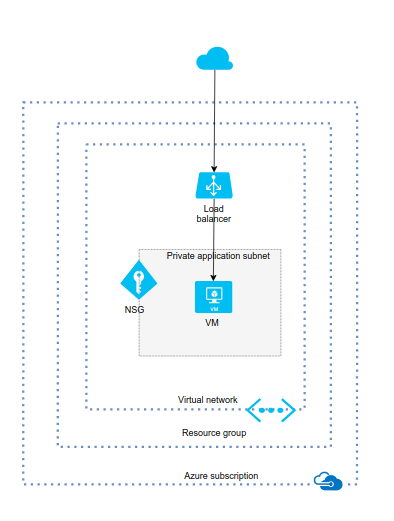
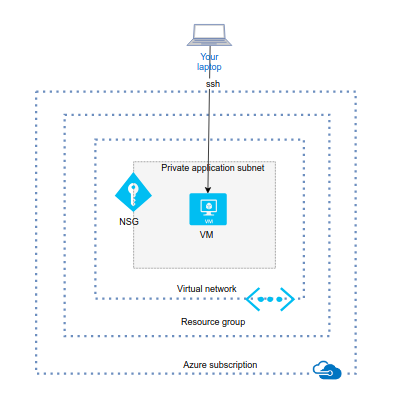
Added vm module. Demo is ready. Next finalize documentation.

diff --git a/README.md b/README.md
@@ -89,14 +89,17 @@ You need an Azure subscription for this demonstration. You can order a private A
 8. Open Azure Portal and browse different views to see what entities were created:
    1. TODO.
    2. TODO
-9. Test the demo application by hitting to the load balancer with a http GET: 
-   1. TODO: Get LB DNS here.
-   2. TODO: curl command here.
+9. Test to get ssh connection to the VM:
+   1. terraform output -module=env-def.vm => You get the public ip of the VM.
+   2. Open another terminal in project root folder.
+   3. ssh -i terraform/modules/vm/.ssh/vm_id_rsa ubuntu@IP-NUMBER-HERE
+
 
 
 # Suggestions to Continue this Demonstration
 
 We could add e.g. scale set to this demonstration but let's keep this demonstration as short as possible so that it can be used as an Azure introduction demonstration. If there are some improvement suggestions that our AS developers would like to see in this demonstration let's create other small demonstrations for those purposes, e.g.:
+- Create a custom Linux image that has the Java app baked in.
 - A scale set for VMs.
 - Logs to Log Analytics.
 - Use container instead of VM.
